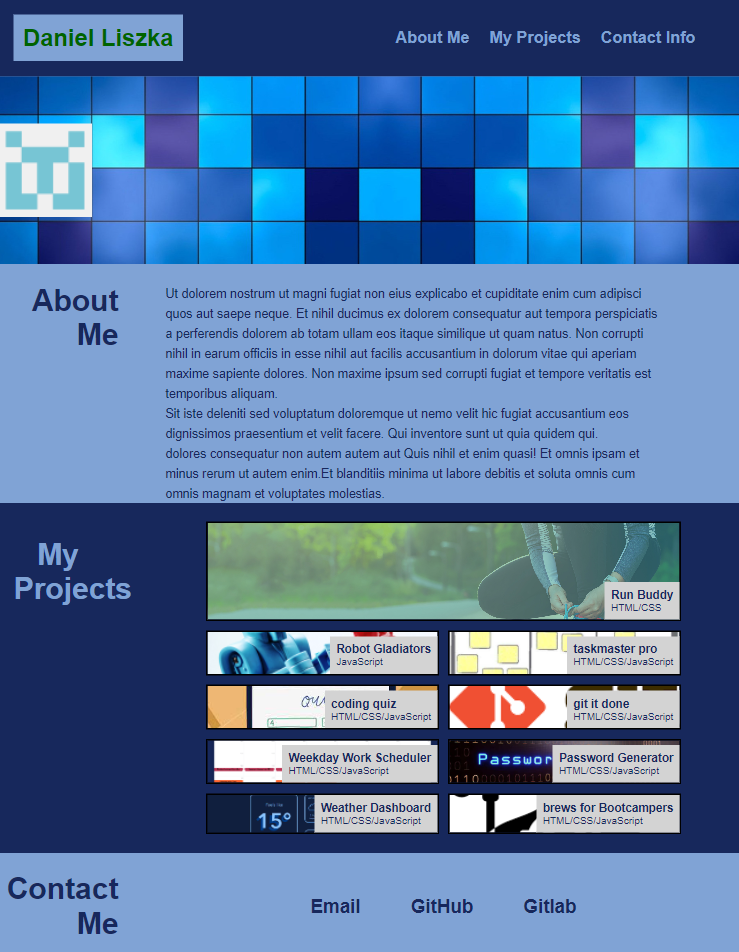
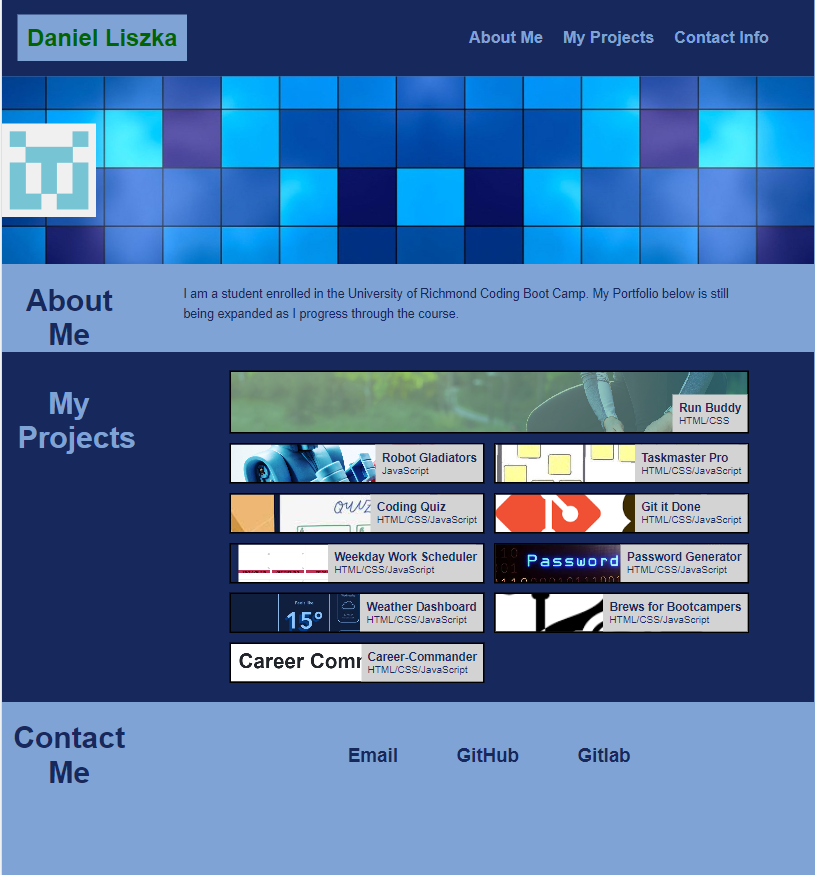
updated portfolio

diff --git a/index.html b/index.html
@@ -1,133 +1,148 @@
 <!DOCTYPE html>
 <html lang="en">
-    <head>
-        <meta charset="UTF-8" />
-        <meta name="viewport" content="width=device-width, initial-scale=1.0" />
-        <title>Daniel Liszka's Portfolio</title>
-        <link rel="stylesheet" href="./css/style.css" />
-    </head>
 
-    <body>
-        <!-- header and nav section start -->
-        <header>
-            <div><h1>Daniel Liszka</h1></div>
-            <nav>
+<head>
+    <meta charset="UTF-8" />
+    <meta name="viewport" content="width=device-width, initial-scale=1.0" />
+    <title>Daniel Liszka's Portfolio</title>
+    <link rel="stylesheet" href="./css/style.css" />
+</head>
+
+<body>
+    <!-- header and nav section start -->
+    <header>
+        <div>
+            <h1>Daniel Liszka</h1>
+        </div>
+        <nav>
+            <ul>
+                <li>
+                    <a href="#about">About Me</a>
+                </li>
+                <li>
+                    <a href="#my-projects">My Projects</a>
+                </li>
+                <li>
+                    <a href="#contact-me">Contact Info</a>
+                </li>
+            </ul>
+        </nav>
+    </header>
+
+    <!-- Avatar image section start -->
+    <section class="hero">
+        <div>
+            <img src="./images/avatar.png" alt="Placeholder Avatar">
+        </div>
+    </section>
+
+    <!-- about me section start -->
+    <section id="about" class="about">
+        <div class="title">
+            <h2>About Me</h2>
+        </div>
+
+        <div>
+            <p>
+                I am a student enrolled in the University of Richmond Coding Boot Camp. My Portfolio below is still
+                being expanded as I progress through the course.
+            </p>
+        </div>
+    </section>
+
+    <!-- my project section start -->
+    <section id="my-projects" class="my-projects">
+        <div class="title">
+            <h2>My Projects</h2>
+        </div>
+        <div class="projects-grid-wrapper">
+            <div class="projects-grid">
+
+                <a href="https://danielliszka.github.io/run-buddy/" class="project run-buddy">
+                    <div class="project-label">
+                        <h3>Run Buddy</h3>
+                        <p>HTML/CSS</p>
+                    </div>
+                </a>
+                <a href="https://github.com/DanielLiszka/robot-gladiators" class="project robot-gladiators">
+                    <div class="project-label">
+                        <h3>Robot Gladiators</h3>
+                        <p>JavaScript</p>
+                    </div>
+                </a>
+                <a href="https://github.com/DanielLiszka/taskmaster-pro" class="project taskmaster-pro">
+                    <div class="project-label">
+                        <h3>Taskmaster Pro</h3>
+                        <p>HTML/CSS/JavaScript</p>
+                    </div>
+                </a>
+                <a href="https://github.com/DanielLiszka/coding-quiz" class="project coding-quiz">
+                    <div class="project-label">
+                        <h3>Coding Quiz</h3>
+                        <p>HTML/CSS/JavaScript</p>
+                    </div>
+                </a>
+                <a href="https://github.com/DanielLiszka/git-it-done" class="project git-it-done">
+                    <div class="project-label">
+                        <h3>Git it Done</h3>
+                        <p>HTML/CSS/JavaScript</p>
+                    </div>
+                </a>
+                <a href="https://github.com/DanielLiszka/Weekday-Work-Scheduler" class="project Weekday-Work-Scheduler">
+                    <div class="project-label">
+                        <h3>Weekday Work Scheduler</h3>
+                        <p>HTML/CSS/JavaScript</p>
+                    </div>
+                </a>
+                <a href="https://github.com/DanielLiszka/Password-Generator-Website" class="project Password-Generator">
+                    <div class="project-label">
+                        <h3>Password Generator</h3>
+                        <p>HTML/CSS/JavaScript</p>
+                    </div>
+                </a>
+                <a href="https://github.com/DanielLiszka/Weather-Forecast-Dashboard" class="project Weather">
+                    <div class="project-label">
+                        <h3>Weather Dashboard</h3>
+                        <p>HTML/CSS/JavaScript</p>
+                    </div>
+                </a>
+                <a href="https://github.com/lawalker4/date-night-for-bootcampers" class="project brewery">
+                    <div class="project-label">
+                        <h3>Brews for Bootcampers</h3>
+                        <p>HTML/CSS/JavaScript</p>
+                    </div>
+                </a>
+                <a href="https://github.com/DanielLiszka/career-commander" class="project career">
+                    <div class="project-label">
+                        <h3>Career-Commander</h3>
+                        <p>HTML/CSS/JavaScript</p>
+                    </div>
+                </a>
+            </div>
+        </div>
+    </section>
+
+    <!-- contact info section -->
+    <footer id="contact-me">
+        <div class="title">
+            <h2>Contact Me</h2>
+        </div>
+        <div class="content">
+            <div id="contact-holder">
                 <ul>
                     <li>
-                        <a href="#about">About Me</a>
+                        <a href="placeholder">Email</a>
                     </li>
                     <li>
-                        <a href="#my-projects">My Projects</a>
+                        <a href="https://github.com/DanielLiszka">GitHub</a>
                     </li>
                     <li>
-                        <a href="#contact-me">Contact Info</a>
+                        <a href="placeholder">Gitlab</a>
                     </li>
                 </ul>
-            </nav>
-        </header>
-
-        <!-- Avatar image section start -->
-        <section class="hero">
-            <div>
-                <img src="./images/avatar.png" alt="Placeholder Avatar">
             </div>
-        </section>
+        </div>
+    </footer>
+</body>
 
-        <!-- about me section start -->
-        <section id="about" class="about">
-            <div class="title">
-                <h2>About Me</h2>
-            </div>
-            
-            <div>
-                <p>
-                    I am a student enrolled in the University of Richmond Coding Boot Camp. My Portfolio below is still being expanded as I progress through the course.
-                </p>
-            </div>
-        </section>
-
-        <!-- my project section start -->
-        <section id="my-projects" class="my-projects">
-            <div class="title"><h2>My Projects</h2></div>
-            <div class = "projects-grid-wrapper">
-                <div class="projects-grid">
-
-                    <a href="https://danielliszka.github.io/run-buddy/"  class="project run-buddy">
-                        <div class="project-label">
-                            <h3>Run Buddy</h3>
-                            <p>HTML/CSS</p>
-                        </div>
-                    </a>
-                    <a href="https://github.com/DanielLiszka/robot-gladiators" class="project robot-gladiators">
-                        <div class="project-label">
-                            <h3>Robot Gladiators</h3>
-                            <p>JavaScript</p>
-                        </div>
-                    </a>
-                    <a href="https://github.com/DanielLiszka/taskmaster-pro" class="project taskmaster-pro">
-                        <div class="project-label">
-                            <h3>taskmaster pro</h3>
-                            <p>HTML/CSS/JavaScript</p>
-                        </div>
-                    </a>
-                    <a href="https://github.com/DanielLiszka/coding-quiz" class="project coding-quiz">
-                        <div class="project-label">
-                            <h3>coding quiz</h3>
-                            <p>HTML/CSS/JavaScript</p>
-                        </div>
-                    </a>
-                    <a href="https://github.com/DanielLiszka/git-it-done"  class="project git-it-done">
-                        <div class="project-label">
-                            <h3>git it done</h3>
-                            <p>HTML/CSS/JavaScript</p>
-                        </div>
-                    </a>
-                    <a href="https://github.com/DanielLiszka/Weekday-Work-Scheduler"  class="project Weekday-Work-Scheduler">
-                        <div class="project-label">
-                            <h3>Weekday Work Scheduler</h3>
-                            <p>HTML/CSS/JavaScript</p>
-                        </div>
-                    </a>
-                    <a href="https://github.com/DanielLiszka/Password-Generator-Website"  class="project Password-Generator">
-                        <div class="project-label">
-                            <h3>Password Generator</h3>
-                            <p>HTML/CSS/JavaScript</p>
-                        </div>
-                    </a>
-                    <a href="https://github.com/DanielLiszka/Weather-Forecast-Dashboard"  class="project Weather">
-                        <div class="project-label">
-                            <h3>Weather Dashboard</h3>
-                            <p>HTML/CSS/JavaScript</p>
-                        </div>
-                    </a>
-                    <a href="https://github.com/lawalker4/date-night-for-bootcampers"  class="project brewery">
-                        <div class="project-label">
-                            <h3>brews for Bootcampers</h3>
-                            <p>HTML/CSS/JavaScript</p>
-                        </div>
-                    </a>
-                </div>
-            </div>
-        </section>
-
-        <!-- contact info section -->
-        <footer id="contact-me">
-            <div class="title"><h2>Contact Me</h2></div>
-            <div class="content">
-                <div id="contact-holder">
-                    <ul>
-                        <li>
-                            <a href="placeholder">Email</a>
-                        </li>
-                        <li>
-                            <a href="https://github.com/DanielLiszka" >GitHub</a>
-                        </li>
-                        <li>
-                            <a href="placeholder">Gitlab</a>
-                        </li>
-                    </ul>
-                </div>
-            </div>
-        </footer>
-    </body>
 </html>

diff --git a/css/style.css b/css/style.css
@@ -95,6 +95,7 @@ header nav ul li a {
     align-items: stretch;
     padding-top: 30px;
 }
+
 .about h2 {
     display: flex;
     text-align: center;
@@ -172,17 +173,26 @@ header nav ul li a {
 .Weekday-Work-Scheduler {
     background-image: url("../images/work-calender.jpg");
 }
+
 .Weather {
     background-image: url("../images/weather.jpg");
 }
+
 .brewery {
     background-image: url("../images/brewery.png");
 }
+
+.career {
+    background-image: url("../images/career.png");
+}
+
 .Password-Generator {
     background-image: url("../images/password.jpg");
 }
+
 .project-label {
-    background-color: lightgray;;
+    background-color: lightgray;
+    ;
     color: var(--dark-blue);
     padding: 10px;
 }
@@ -284,7 +294,7 @@ footer ul li a {
         width: 100%;
         padding: 10px;
     }
-    
+
     .projects-grid {
         width: 80%;
     }
@@ -305,5 +315,5 @@ footer ul li a {
         padding: 10px;
         text-align: center;
     }
-    
+
 }
